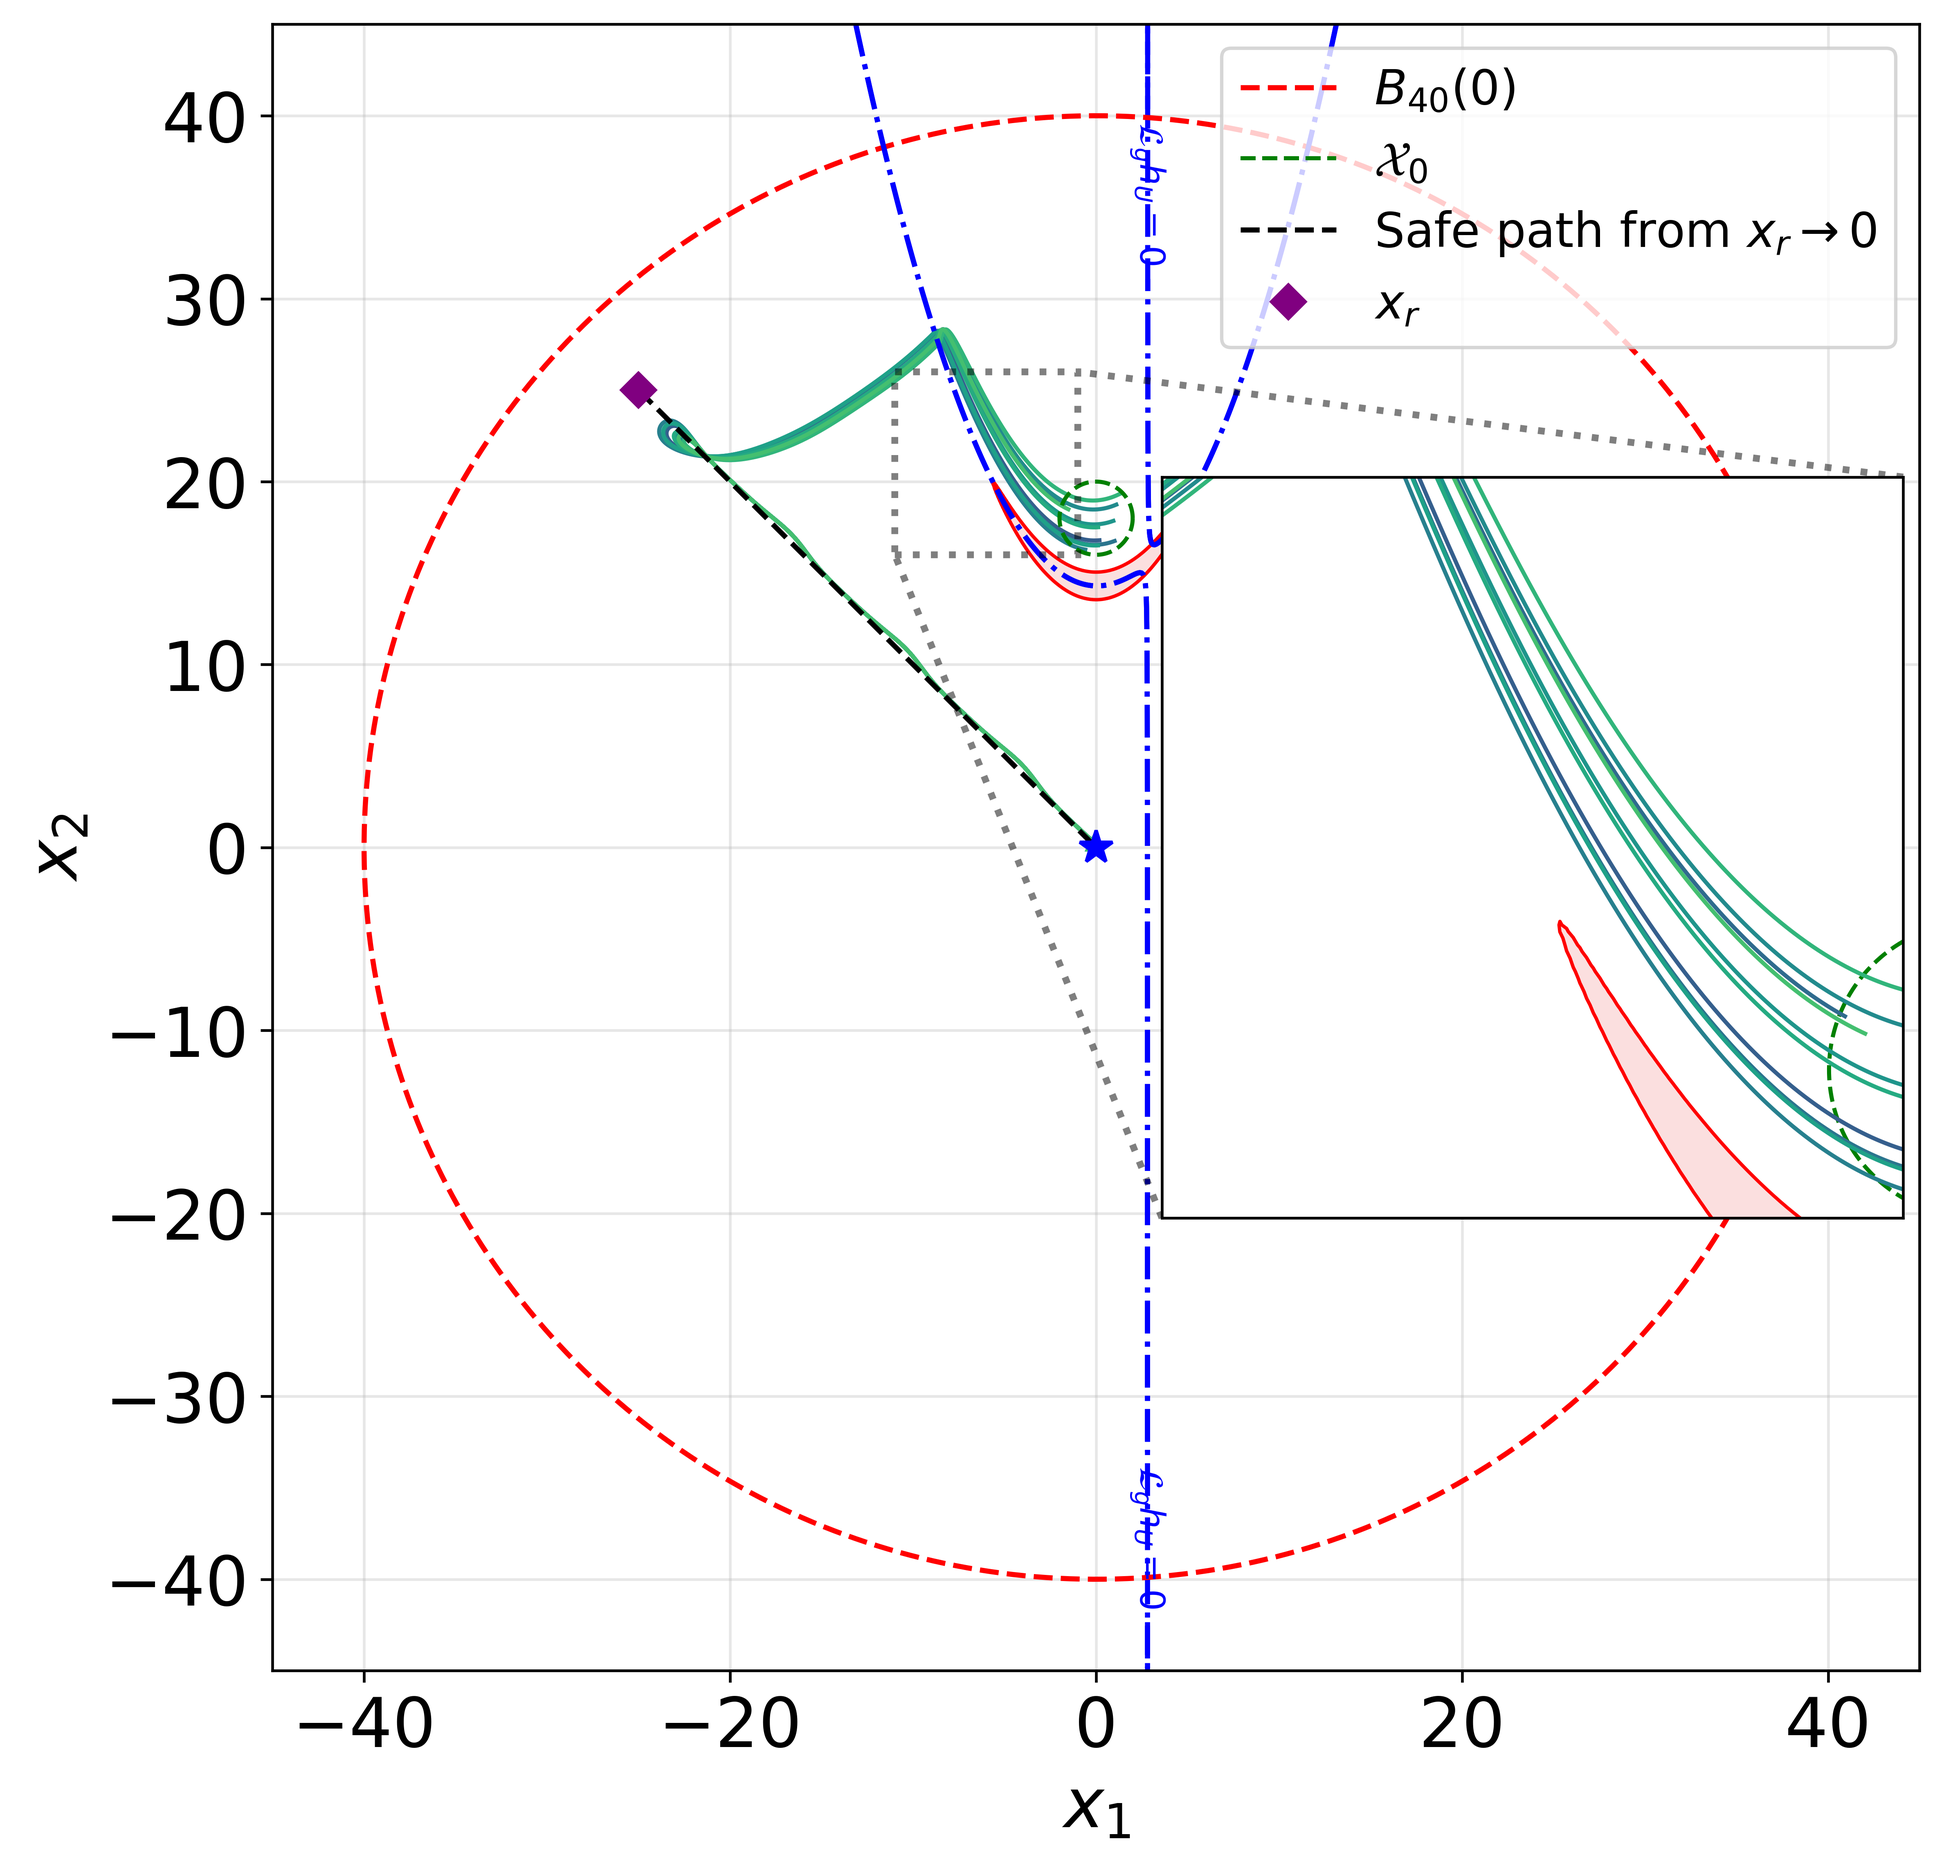
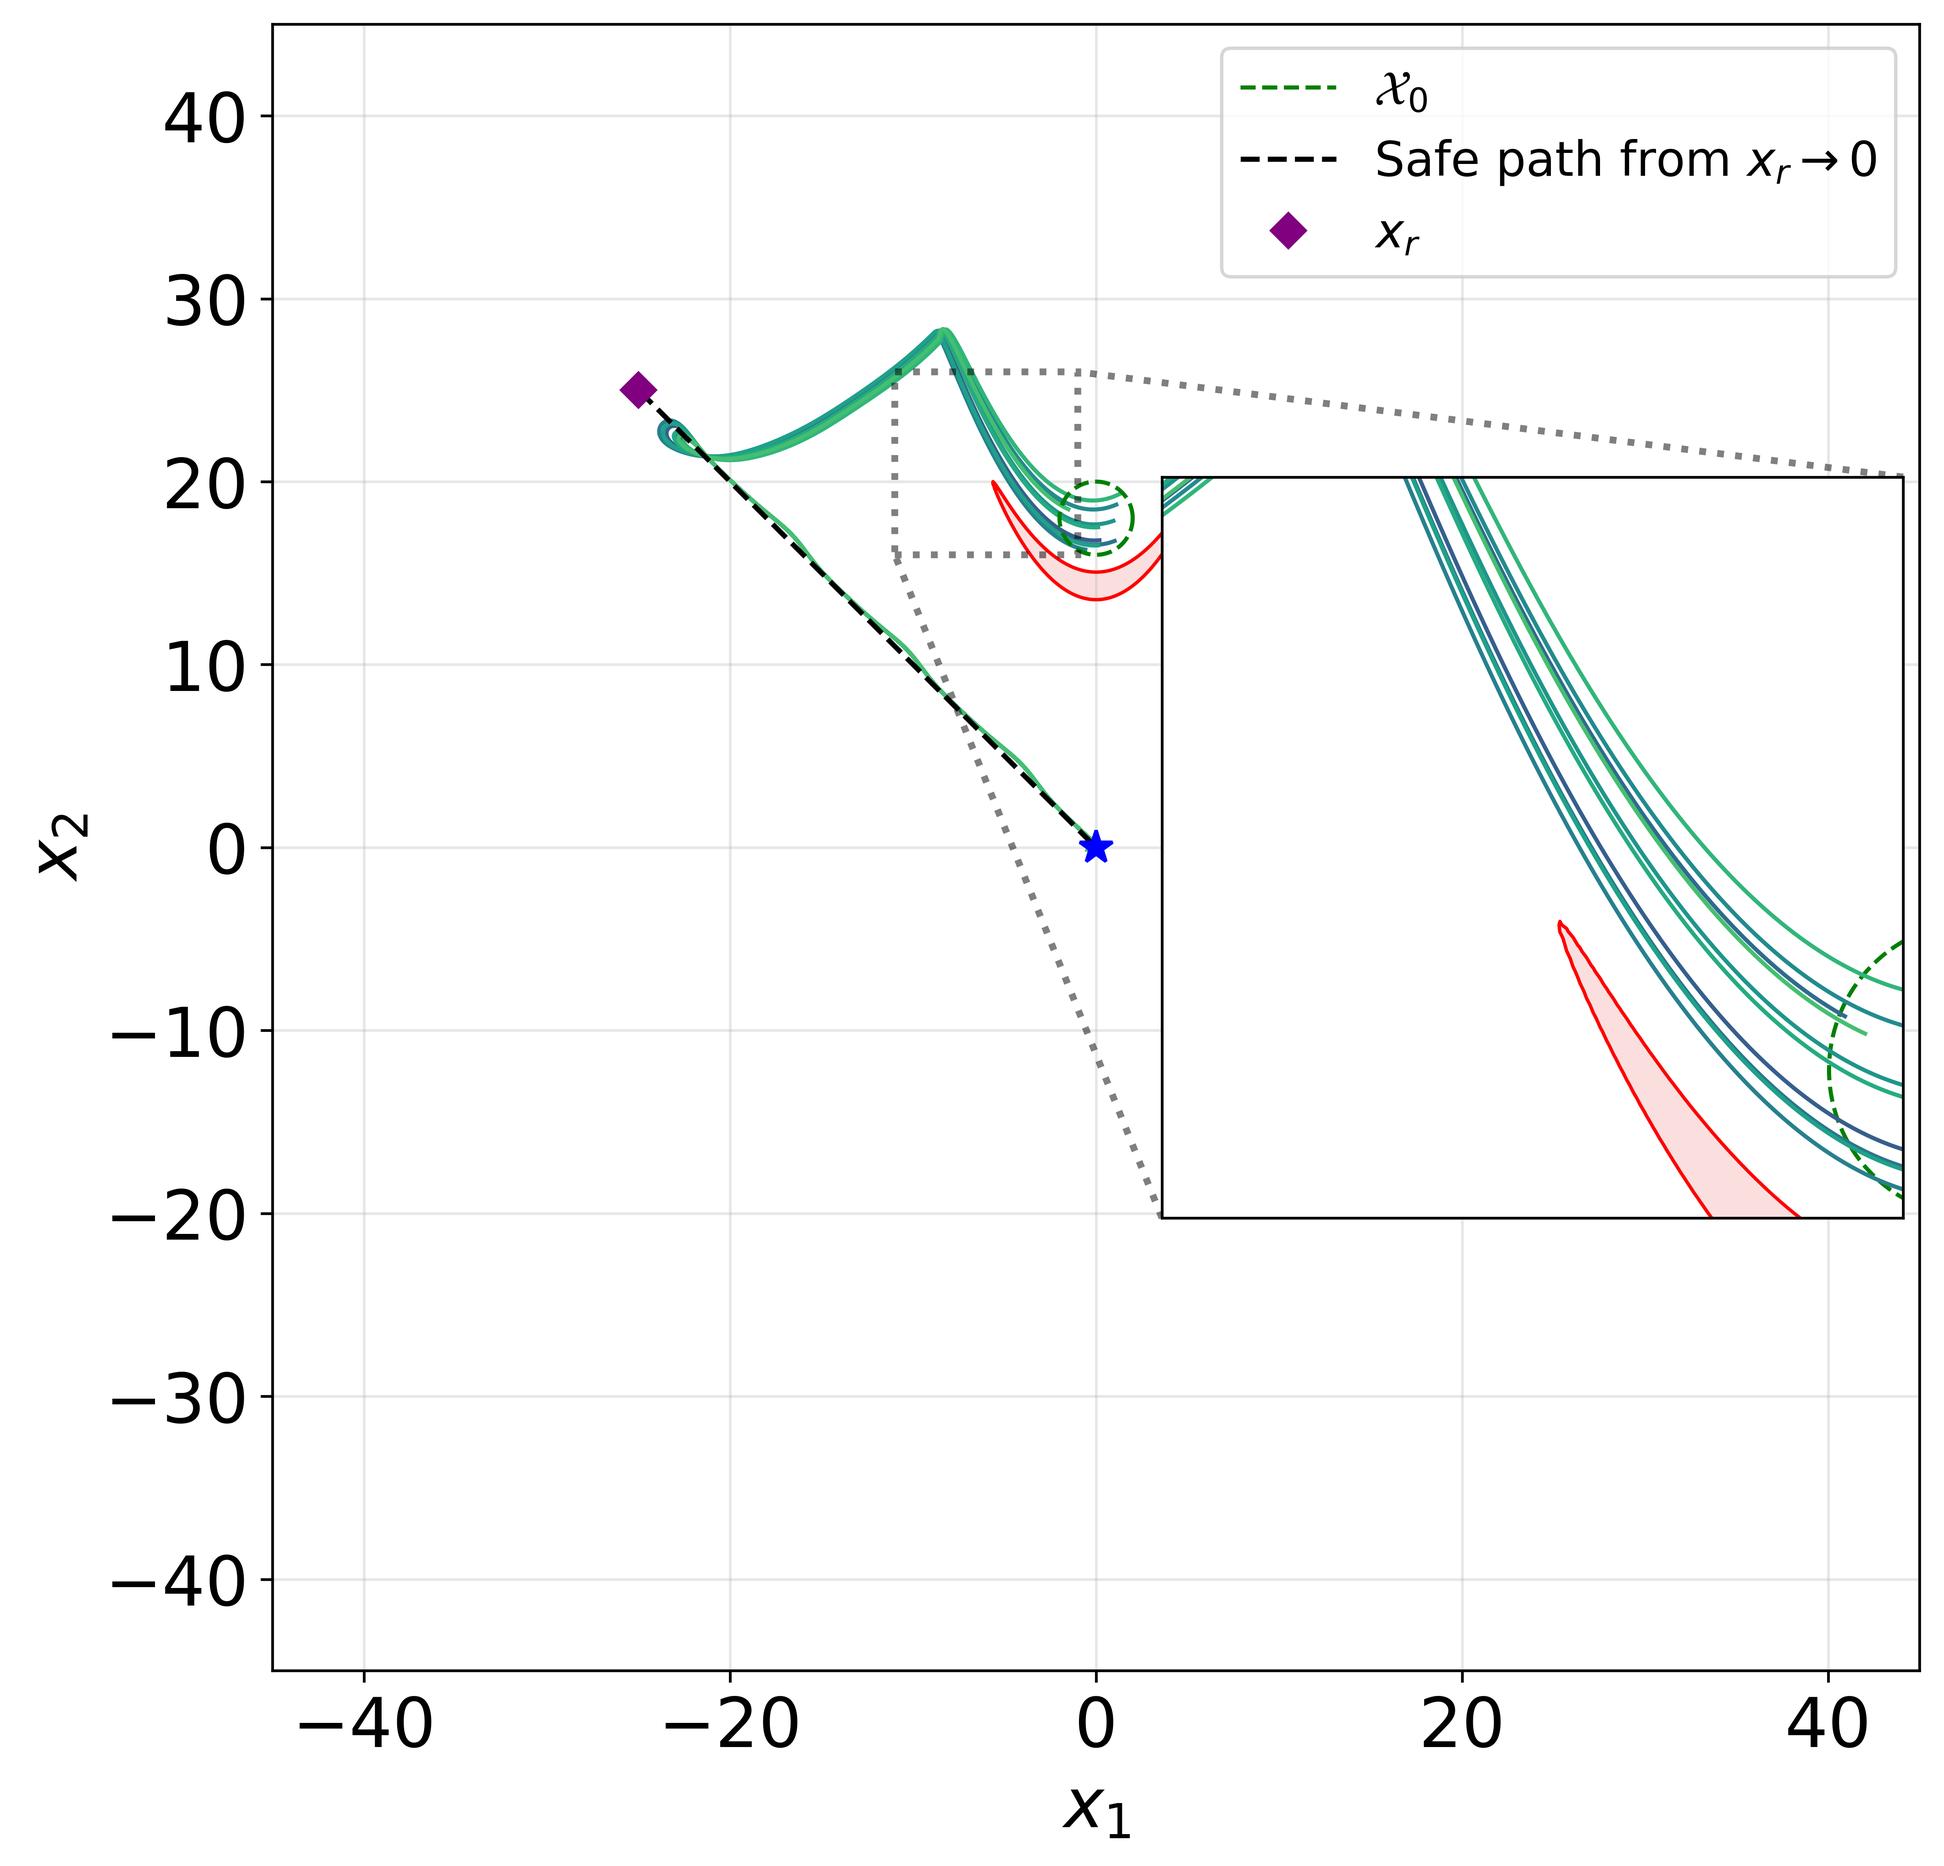
add option for ball plotting

diff --git a/nonlinear/plots_nonlinear.py b/nonlinear/plots_nonlinear.py
@@ -87,7 +87,8 @@ style = {
     'marker_end_sz':  4,
     'origin_sz':      10,
     'log_scale':      True,
-    'show_lg_h':      True,
+    'show_lg_h':      False,
+    'show_hB':        False,
 }
 
 zoom = {
@@ -133,23 +134,25 @@ ax1.contourf(XX, YY, h_U_grid, levels=[-1e10, 0.0],
              colors=['lightcoral'], alpha=style['unsafe_alpha'])
 ax1.contour(XX, YY, h_U_grid, levels=[0.0],
             colors='red', linewidths=style['unsafe_lw'])
-lg_contour = ax1.contour(XX, YY, L_g_h_U_grid, levels=[0.0],
-                         colors='blue', linewidths=1.5, linestyles='-.')
-if lg_contour.allsegs and lg_contour.allsegs[0]:
-    lg_segment = max(lg_contour.allsegs[0], key=lambda seg: seg.shape[0])
-    lg_label_xy = lg_segment[len(lg_segment) // 2]
-    ax1.annotate(
-        r'$\mathcal{L}_g h_U = 0$',
-        xy=lg_label_xy,
-        xytext=(10, 10),
-        textcoords='offset points',
-        color='blue',
-        fontsize=10,
-        bbox=dict(facecolor='white', edgecolor='none', alpha=0.75, pad=1.5),
-    )
-ax1.plot(rB*np.cos(th), rB*np.sin(th),
-         style['ball_ls'], linewidth=style['ball_lw'],
-         color='red', label=r'$B_{40}(0)$')
+if style['show_lg_h']:
+    lg_contour = ax1.contour(XX, YY, L_g_h_U_grid, levels=[0.0],
+                             colors='blue', linewidths=1.5, linestyles='-.')
+    if lg_contour.allsegs and lg_contour.allsegs[0]:
+        lg_segment = max(lg_contour.allsegs[0], key=lambda seg: seg.shape[0])
+        lg_label_xy = lg_segment[len(lg_segment) // 2]
+        ax1.annotate(
+            r'$\mathcal{L}_g h_U = 0$',
+            xy=lg_label_xy,
+            xytext=(10, 10),
+            textcoords='offset points',
+            color='blue',
+            fontsize=10,
+            bbox=dict(facecolor='white', edgecolor='none', alpha=0.75, pad=1.5),
+        )
+if style['show_hB']:
+    ax1.plot(rB*np.cos(th), rB*np.sin(th),
+             style['ball_ls'], linewidth=style['ball_lw'],
+             color='red', label=r'$B_{40}(0)$')
 
 for i, r_ in enumerate(all_results):
     X = r_['X']
@@ -196,9 +199,13 @@ axins.contourf(XX, YY, h_U_grid, levels=[-1e10, 0.0],
                colors=['lightcoral'], alpha=style['unsafe_alpha'])
 axins.contour(XX, YY, h_U_grid, levels=[0.0],
               colors='red', linewidths=style['unsafe_lw'])
-cs = ax1.contour(XX, YY, L_g_h_U_grid, levels=[0.0],
-            colors='blue', linewidths=1.5, linestyles='-.')
-ax1.clabel(cs, fmt={0.0: r'$\mathcal{L}_g h_U = 0$'}, inline=True, fontsize=10)
+if style['show_lg_h']:
+    cs = axins.contour(XX, YY, L_g_h_U_grid, levels=[0.0],
+                       colors='blue', linewidths=1.5, linestyles='-.')
+    axins.clabel(cs, fmt={0.0: r'$\mathcal{L}_g h_U = 0$'}, inline=True, fontsize=10)
+if style['show_hB']:
+    axins.plot(rB*np.cos(th), rB*np.sin(th),
+               style['ball_ls'], linewidth=style['ball_lw'], color='red')
 axins.plot(x0_center[0] + x0_radius*np.cos(ic_th),
            x0_center[1] + x0_radius*np.sin(ic_th),
            style['ic_ball_ls'], linewidth=style['ic_ball_lw'], color='green')
@@ -254,20 +261,23 @@ print("[Saved] Figures/levelsets_hU_nonlinear.png")
 
 # ========== Plot 3: Ball barrier h_B(x(t)) ==========
 
-fig3, ax3 = plt.subplots(figsize=(8, 4))
-for i, r_ in enumerate(all_results):
-    ax3.plot(r_['tgrid'], r_['h_B_vals'],
-             color=colors[i], linewidth=style['traj_lw'], alpha=style['traj_alpha'])
-ax3.axhline(0, color='r', linestyle='--', linewidth=1.5, label='$h_B(x(t)) = 0$')
-ax3.set_xlabel('Time $t$ (s)', fontsize=style['axis_fs'])
-ax3.set_ylabel('$h_B$', fontsize=style['axis_fs'])
-ax3.tick_params(axis='both', labelsize=style['tick_fs'])
-ax3.grid(True, alpha=0.3)
-ax3.legend(fontsize=style['legend_fs'])
-fig3.tight_layout()
-fig3.savefig(figures_dir / 'barrier_ball_nonlinear.png', dpi=600, bbox_inches='tight')
-plt.close(fig3)
-print("[Saved] Figures/barrier_ball_nonlinear.png")
+if style['show_hB']:
+    fig3, ax3 = plt.subplots(figsize=(8, 4))
+    for i, r_ in enumerate(all_results):
+        ax3.plot(r_['tgrid'], r_['h_B_vals'],
+                 color=colors[i], linewidth=style['traj_lw'], alpha=style['traj_alpha'])
+    ax3.axhline(0, color='r', linestyle='--', linewidth=1.5, label='$h_B(x(t)) = 0$')
+    ax3.set_xlabel('Time $t$ (s)', fontsize=style['axis_fs'])
+    ax3.set_ylabel('$h_B$', fontsize=style['axis_fs'])
+    ax3.tick_params(axis='both', labelsize=style['tick_fs'])
+    ax3.grid(True, alpha=0.3)
+    ax3.legend(fontsize=style['legend_fs'])
+    fig3.tight_layout()
+    fig3.savefig(figures_dir / 'barrier_ball_nonlinear.png', dpi=600, bbox_inches='tight')
+    plt.close(fig3)
+    print("[Saved] Figures/barrier_ball_nonlinear.png")
+else:
+    print("[Skipped] Figures/barrier_ball_nonlinear.png (style['show_hB']=False)")
 
 # ========== Plot 4: Safety barrier h_U(x(t)) ==========
 
